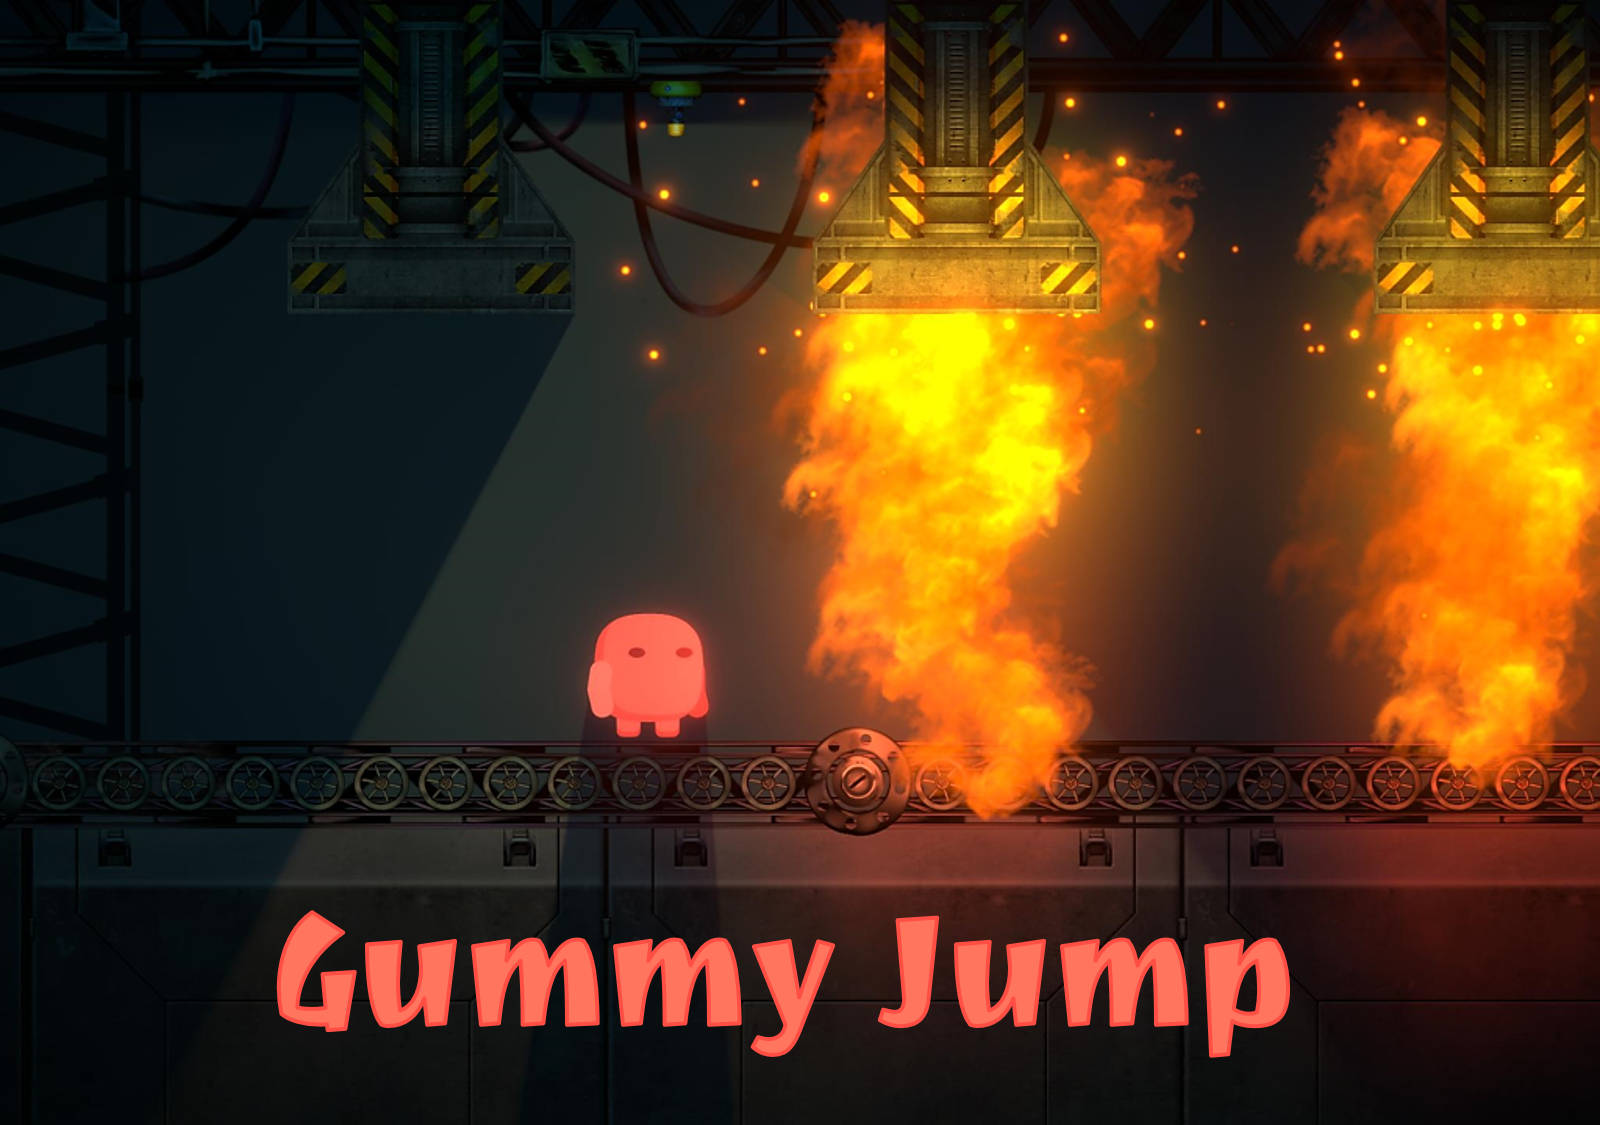
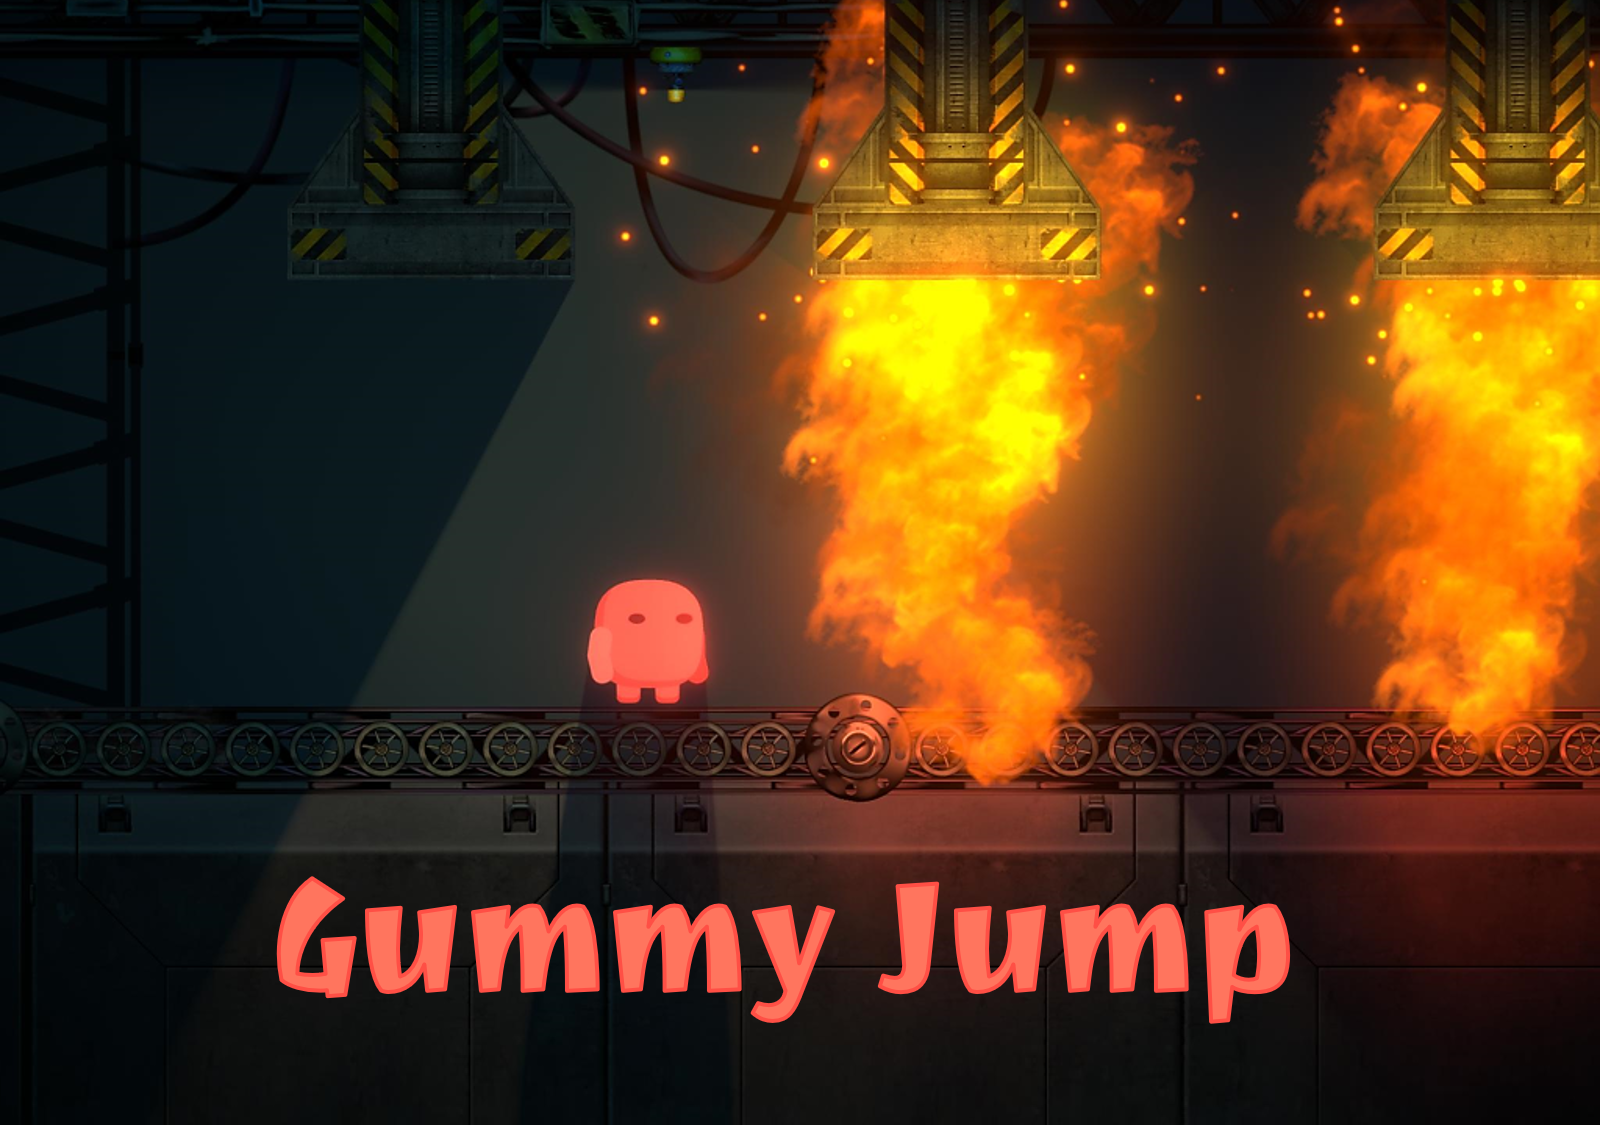
Fixed GummyJump screenshots' aspect ratio

diff --git a/app/projects/gummy-jump/page.tsx b/app/projects/gummy-jump/page.tsx
@@ -28,43 +28,43 @@ export default function GasStation() {
                 {
                     type: 0,
                     size: [],
-                    src: "/projects/GummyJump/Screenshot1.jpg",
+                    src: "/projects/GummyJump/Screenshot1.png",
                     alt: "In-game Screenshot",
                 },
                 {
                     type: 0,
                     size: [],
-                    src: "/projects/GummyJump/Screenshot2.jpg",
+                    src: "/projects/GummyJump/Screenshot2.png",
                     alt: "In-game Screenshot",
                 },
                 {
                     type: 0,
                     size: [],
-                    src: "/projects/GummyJump/Screenshot3.jpg",
+                    src: "/projects/GummyJump/Screenshot3.png",
                     alt: "In-game Screenshot",
                 },
                 {
                     type: 0,
                     size: [],
-                    src: "/projects/GummyJump/Screenshot4.jpg",
+                    src: "/projects/GummyJump/Screenshot4.png",
                     alt: "In-game Screenshot",
                 },
                 {
                     type: 0,
                     size: [],
-                    src: "/projects/GummyJump/Screenshot5.jpg",
+                    src: "/projects/GummyJump/Screenshot5.png",
                     alt: "In-game Screenshot",
                 },
                 {
                     type: 0,
                     size: [],
-                    src: "/projects/GummyJump/Screenshot6.jpg",
+                    src: "/projects/GummyJump/Screenshot6.png",
                     alt: "In-game Screenshot",
                 },
                 {
                     type: 0,
                     size: [],
-                    src: "/projects/GummyJump/Screenshot7.jpg",
+                    src: "/projects/GummyJump/Screenshot7.png",
                     alt: "In-game Screenshot",
                 },
                 

diff --git a/app/portfolio/page.tsx b/app/portfolio/page.tsx
@@ -31,7 +31,7 @@ export default function PortfolioPage() {
                 <h1>Games</h1>
 
                 <div className="projectTypeGrid">
-                    <Link href='' className='projectCard'>
+                    <Link href='/projects/the-juicer' className='projectCard'>
                         <Image src='/projects/TheJuicer2.png' alt='TheJuicer2 Thumbnail' fill/>
                         <div className="cardOverlay">
                             <h2>The Juicer 2</h2>
@@ -39,7 +39,7 @@ export default function PortfolioPage() {
                         </div>
                     </Link>
 
-                    <Link href='' className='projectCard'>
+                    <Link href='/projects/gummy-jump' className='projectCard'>
                         <Image src='/projects/GummyJump.png' alt='GummyJump Thumbnail' fill/>
                         <div className="cardOverlay">
                             <h2>Gummy Jump 2</h2>

diff --git a/components/scrollToTop.scss b/components/scrollToTop.scss
@@ -15,7 +15,7 @@
   position: fixed;
   z-index: 100;
   top: 86%;
-  left: calc(90% - var(--width));
+  left: calc(92% - var(--width));
   cursor: pointer;
 
   a {

diff --git a/components/carousel.module.scss b/components/carousel.module.scss
@@ -75,7 +75,6 @@
   }
 }
 
-
 .emblaSlideImg {
   position: absolute;
   display: block;
